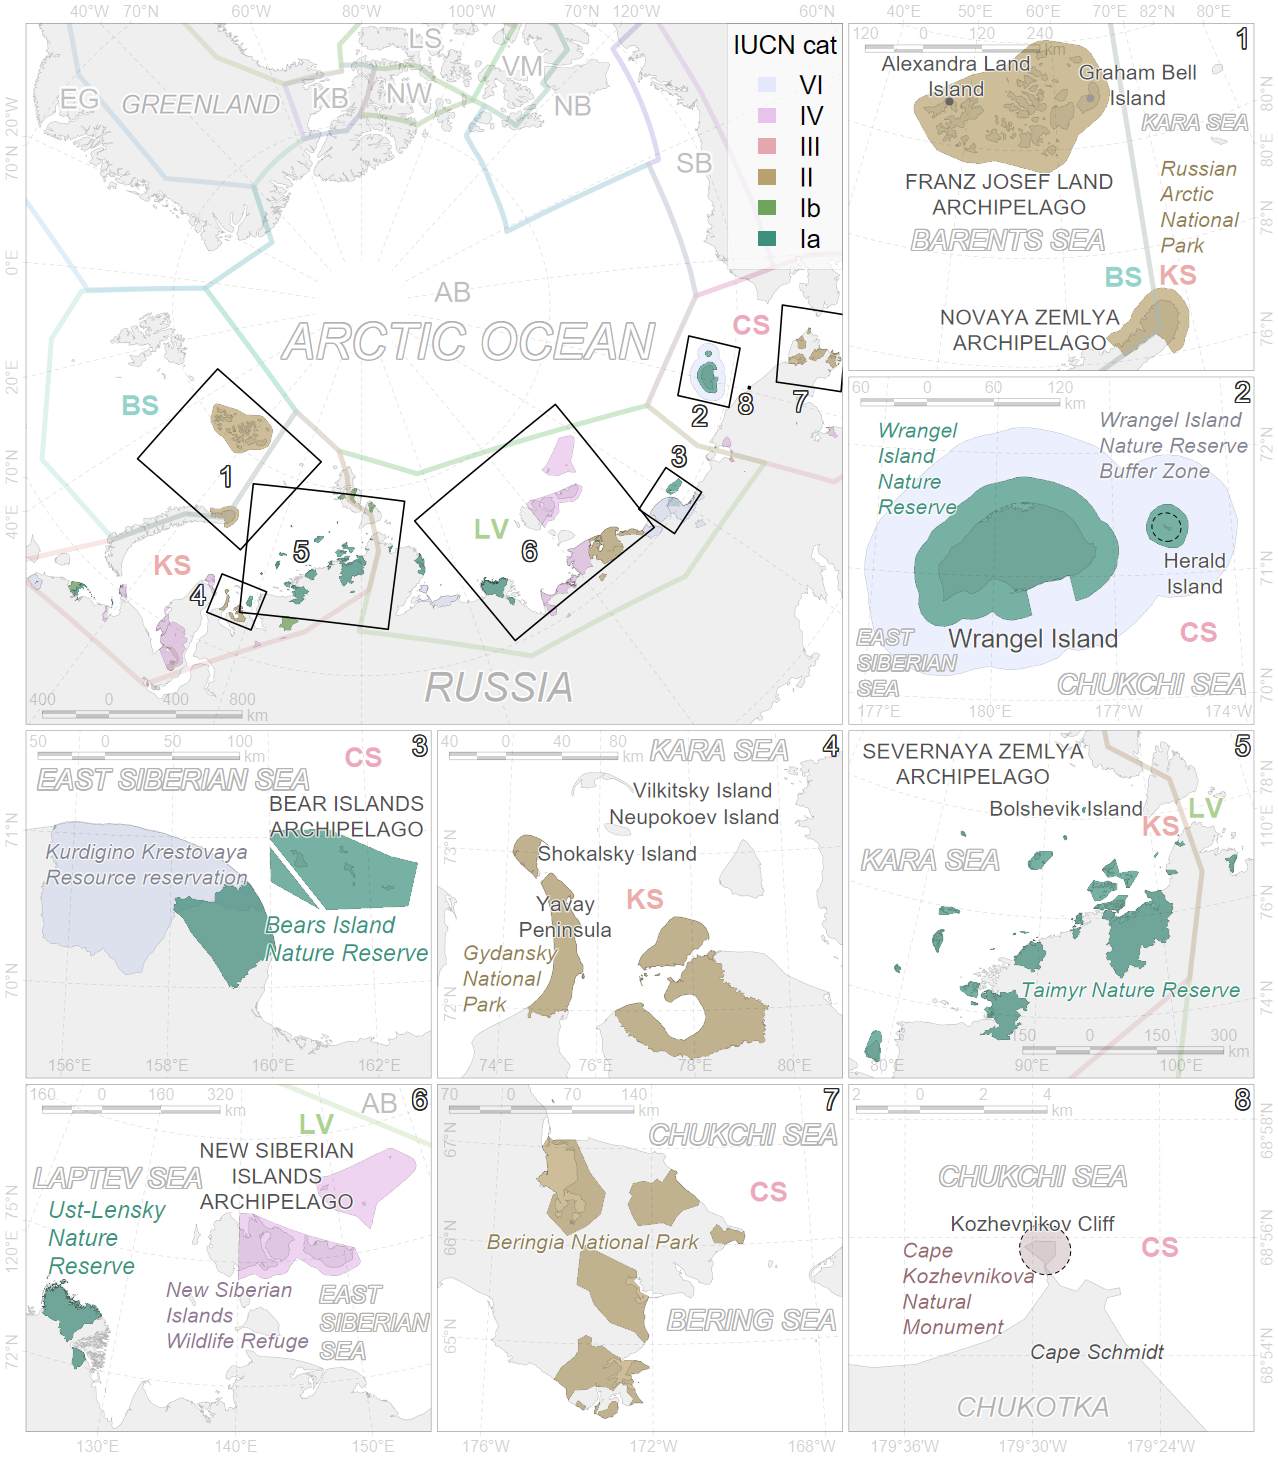
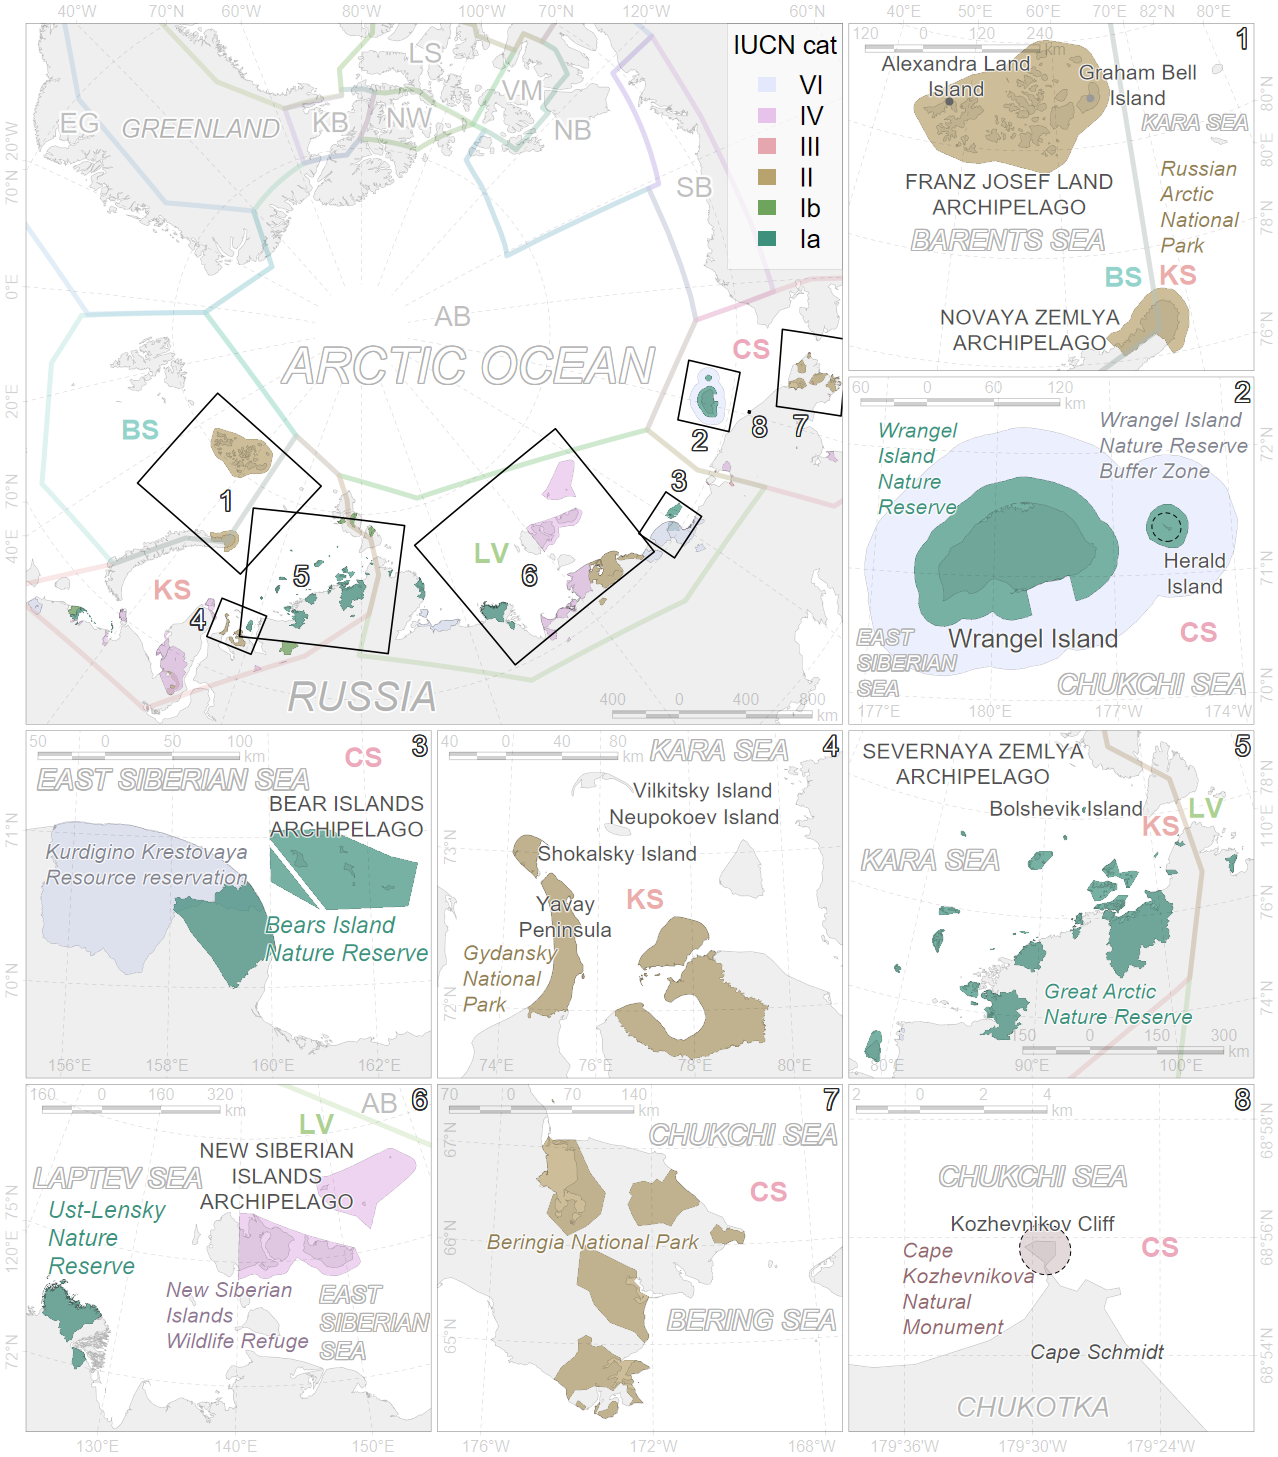
ongoing

Changed region(s): [[0.0, 0.0, 0.6714, 0.4942], [0.7934, 0.6795, 0.946, 0.7104], [0.4883, 0.4633, 0.6408, 0.4942]]

diff --git a/now/20240612/proceedings.html b/now/20240612/proceedings.html
@@ -12,7 +12,7 @@
 
 
 
-<title>(12:19) Proceedings</title>
+<title>(14:56) Proceedings</title>
 
 <link href="https://nplatonov.github.io/site_libs/anchor-sections-1.1.0/anchor-sections.css" rel="stylesheet" />
 <link href="https://nplatonov.github.io/site_libs/anchor-sections-1.1.0/anchor-sections-hash.css" rel="stylesheet" />
@@ -98,7 +98,7 @@ Lensky Pillars State Nature Reserve, Yakutsk, Russia</address><br><h4 class="aut
 <address class="author_afil">
 Autonomous Non-Profit Organization “EcoFactor”, Saint Petersburg, Russia</address><br><h4 class="author">Chernook I. V.</h4>
 <address class="author_afil">
-Autonomous Non-Profit Organization “EcoFactor”, Saint Petersburg, Russia</address><br><h4 class="date"><span class="when"> <span class="updated">Updated: 2024-12-20 12:19</span></span></h4>
+Autonomous Non-Profit Organization “EcoFactor”, Saint Petersburg, Russia</address><br><h4 class="date"><span class="when"> <span class="updated">Updated: 2024-12-20 14:56</span></span></h4>
 
 
 <div id="TOC">
@@ -195,7 +195,7 @@ Autonomous Non-Profit Organization “EcoFactor”, Saint Petersburg, Russia</ad
 <div id="new-regulations" class="section level3 hasAnchor">
 <h3>New Regulations<a href="#new-regulations" class="anchor-section" aria-label="Anchor link to header"></a></h3>
 <p>No significant new environmental regulations have been approved recently, apart from minor encouraging updates.</p>
-<p>Under the previous edition of the Red Data Book <span class="citation">(<a href="#ref-RedBook2001en"><span>T</span>he <span>R</span>ed <span>D</span>ata <span>B</span>ook of the <span>R</span>ussian <span>F</span>ederation 2001</a>)</span>, polar bears in Russia were classified into three distinct populations: the Kara-Barents Sea population, the Laptev Sea population, and the Alaska-Chukotka population. These population boundaries are specified, for example, in the 2010 Strategy for Polar Bear Conservation <span class="citation">(<a href="#ref-PB_strategy2010en">S. E. Belikov et al. 2010</a>)</span>.</p>
+<p>Under the previous edition of <span class="citation"><span>T</span>he <span>R</span>ed <span>D</span>ata <span>B</span>ook of the <span>R</span>ussian <span>F</span>ederation (<a href="#ref-RedBook2001en">2001</a>)</span>, polar bears in Russia were classified into three distinct populations: the Kara-Barents Sea population, the Laptev Sea population, and the Alaska-Chukotka population. These population boundaries are specified, for example, in the 2010 Strategy for Polar Bear Conservation <span class="citation">(<a href="#ref-PB_strategy2010en">S. E. Belikov et al. 2010</a>)</span>.</p>
 <p>Currently, the Ministry of Natural Resources and Ecology of the Russian Federation (see the next section) uses the term “subpopulation” in its statements and official documents, aligning with IUCN definitions for consistency.</p>
 </div>
 </div>
@@ -250,12 +250,12 @@ Regional authorities are responsible for managing regional PAs, including ensuri
 <h2>Protected Areas<a href="#protected-areas" class="anchor-section" aria-label="Anchor link to header"></a></h2>
 <p>Protected areas in Russia serve as an effective tool for polar bear conservation by ensuring territorial protection for wildlife. These areas are managed by both state and regional authorities.</p>
 <div class="figure"><span style="display:block;" id="fig:fig-epa"></span>
-<img src="assets/toponim-epa.png" alt="Russian protected areas inside of IUCN polar bear subpopulation boundaries" width="639" height="386" />
+<img src="assets/toponim-epa.png" alt="Russian protected areas within the IUCN polar bear subpopulation boundaries are shown. Abbreviations for the IUCN polar bear subpopulations, as managed by the Russian Federation, are highlighted in color. The boundaries of the eight inset maps, with their corresponding numbers displayed in the top right corners, are outlined with black boxes on the base map. Protected areas are coloured according to IUCN categories, with a colour legend provided on the base map" width="639" height="386" />
 <p class="caption">
-<span class="caption-prefix" data-id="fig:fig-epa">Figure 1</span><span class="caption-suffix"></span> Russian protected areas inside of IUCN polar bear subpopulation boundaries
+<span class="caption-prefix" data-id="fig:fig-epa">Figure 1</span><span class="caption-suffix"></span> Russian protected areas within the IUCN polar bear subpopulation boundaries are shown. Abbreviations for the IUCN polar bear subpopulations, as managed by the Russian Federation, are highlighted in color. The boundaries of the eight inset maps, with their corresponding numbers displayed in the top right corners, are outlined with black boxes on the base map. Protected areas are coloured according to IUCN categories, with a colour legend provided on the base map
 </p>
 </div>
-<p>There are 52 protected areas overlapping with the IUCN polar bear subpopulation boundaries. By management level, these include: 21 with federal status, 30 with regional status, 1 with local status. By classification, these consist of: 6 state nature reserves (zapovedniks), 4 national parks, 7 federal wildlife preserves (zakazniks), 3 natural parks, 7 regional preserves, 17 natural monuments, 2 buffer zones, and 1 resting area. The alignment between Russian protected areas and IUCN categories was prepared by Boris Solovyev from Systematic Conservation Consultancy (Figure <a href="#fig:fig-epa">1</a>). According to IUCN categories, the protected areas include: 7 Strict Nature Reserves (Ia), 3 Wilderness Areas (Ib), 6 National Parks (II), 17 Natural Monuments (III), 12 Habitat/Species Management Areas (IV), and 7 Managed Resource Protected Areas (IV).</p>
+<p>There are 52 protected areas overlapping with the IUCN polar bear subpopulation boundaries. By management level, these include: 21 with federal status, 30 with regional status, 1 with local status. By classification, these consist of: 6 state nature reserves (zapovedniks), 4 national parks, 7 federal wildlife refuges (zakazniks), 3 natural parks, 7 regional wildlife refuges, 17 natural monuments, 2 buffer zones, and 1 resting area. The alignment between Russian protected areas and IUCN categories was prepared by Boris Solovyev from Systematic Conservation Consultancy (Figure <a href="#fig:fig-epa">1</a>). According to IUCN categories, the protected areas include: 7 Strict Nature Reserves (Ia), 3 Wilderness Areas (Ib), 6 National Parks (II), 17 Natural Monuments (III), 12 Habitat/Species Management Areas (IV), and 7 Managed Resource Protected Areas (IV).</p>
 <p>No new protected areas have been established during the 2022–2024 period.</p>
 </div>
 <div id="conservation" class="section level2 hasAnchor">
@@ -278,7 +278,7 @@ In recent years, some scientific funding programs have ceased to exist. For exam
 <div id="participants" class="section level2 hasAnchor">
 <h2>Participants<a href="#participants" class="anchor-section" aria-label="Anchor link to header"></a></h2>
 <p>Scientific research projects on polar bears are conducted by individual scientific institutions and non-governmental organizations.</p>
-<p><em>Natural reserves</em> primarily manage protected areas but also play an active role in polar bear research. <strong>The Russian Arctic National Park</strong> conducts several research components, including spring surveys of maternal dens on Alexandra Land Island (Franz Josef Land archipelago) with data from expeditions by the “Severtsov Institute”, monitoring the number of polar bear encounters reported by park staff during tourist cruises, analysis of camera trap data from northern Novaya Zemlya and Alexandra Land Island. <strong>The Wrangel Island State Nature Reserve</strong>, supported by “RosZapovedCenter” in 2022, continues long-term monitoring efforts, including tracking maternal den distribution, conducting ground and aerial polar bear surveys, and analysing camera trap data. <strong>The Bear Islands State Nature Reserve</strong> is managed by <strong>the Lensky Pillars State Nature Reserve</strong>, with expanded activities into <strong>the Kurdigino Krestovaya Resource Reservation</strong>. These activities include monitoring maternal den distribution, ground and aerial polar bear surveys, and camera trap analysis. In 2023, “RosZapovedCenter” supported UAV-based aerial surveys of the Bear Islands. <strong>The Gydansky National Park</strong> focuses on estimating polar bear occurrences, with support from “RosZapovedCenter” expected in 2024. Meanwhile, <strong>the Taimyr State Nature Reserve</strong> had plans for polar bear surveys in 2024, but these were postponed. Research activities in areas managed by <strong>the Ust-Lensky State Nature Reserve</strong> and <strong>the New Siberian Islands Wildlife Refuge</strong> remain systematic but limited <span class="citation">(<a href="#ref-Gladysheva2022en">Gladysheva 2022</a>)</span>, primarily due to the inaccessibility of key polar bear habitats. Basic research here involves polar bear occurrence studies. The Ust-Lensky State Nature Reserve co-participated in the “Master of the Arctic” aerial survey in 2021 and plans to conduct another polar bear survey in 2025. <strong>The Beringia National Park</strong> has recently summarized polar bear distribution on terrestrial Chukotka, identified effective measures for human safety near polar bears, and continues behaviour analysis at model sites.</p>
+<p><em>Natural reserves</em> primarily manage protected areas but also play an active role in polar bear research. <strong>The Russian Arctic National Park</strong> conducts several research components, including spring surveys of maternal dens on Alexandra Land Island (Franz Josef Land archipelago) with data from expeditions by the “Severtsov Institute”, monitoring the number of polar bear encounters reported by park staff during tourist cruises, analysis of camera trap data from northern Novaya Zemlya and Alexandra Land Island. <strong>The Wrangel Island State Nature Reserve</strong>, supported by “RosZapovedCenter” in 2022, continues long-term monitoring efforts, including tracking maternal den distribution, conducting ground and aerial polar bear surveys, and analysing camera trap data. <strong>The Bear Islands State Nature Reserve</strong> is managed by <strong>the Lensky Pillars State Nature Reserve</strong>, with expanded activities into <strong>the Kurdigino Krestovaya Resource Reservation</strong>. These activities include monitoring maternal den distribution, ground and aerial polar bear surveys, and camera trap analysis. In 2023, “RosZapovedCenter” supported UAV-based aerial surveys of the Bear Islands. <strong>The Gydansky National Park</strong> focuses on estimating polar bear occurrences, with support from “RosZapovedCenter” expected in 2024. Meanwhile, <strong>The Great Arctic State Nature Reserve</strong>, managed by <strong>the Joint Directorate of Taymyr Reserves</strong>, had plans for polar bear surveys in 2024, but these were postponed. Research activities in areas managed by <strong>the Ust-Lensky State Nature Reserve</strong> and <strong>the New Siberian Islands Wildlife Refuge</strong> remain systematic but limited <span class="citation">(<a href="#ref-Gladysheva2022en">Gladysheva 2022</a>)</span>, primarily due to the inaccessibility of key polar bear habitats. Basic research here involves polar bear occurrence studies. The Ust-Lensky State Nature Reserve co-participated in the “Master of the Arctic” aerial survey in 2021 and plans to conduct another polar bear survey in 2025. <strong>The Beringia National Park</strong> has recently summarized polar bear distribution on terrestrial Chukotka, identified effective measures for human safety near polar bears, and continues behaviour analysis at model sites.</p>
 <p><em>Research institutes</em> focus on specialized polar bear studies, leveraging multidisciplinary expertise. <strong>The All-Russian Research Institute for Environmental Protection </strong> (VNII Ecology), in collaboration with <strong>the Institute of Geography of the Russian Academy of Sciences</strong> (Geography Institute), has made progress in the following areas: ground surveys of polar bears on Wrangel Island (2016–2019), monitoring polar bear occurrences on sea ice, preparing methodologies for maternal den surveys, developing models of environmental suitability for maternal dens on Wrangel Island, Franz Josef Land, Severnaya Zemlya, and Novaya Zemlya (ongoing). Their studies also include polar bear welfare in the Laptev Sea, vulnerability to climate change, and reviews of marine mammal activities in the Franz Josef Land region. <strong>The Institute of Biological Problems of the North, Far East Branch of the Russian Academy of Sciences</strong>, collaborates with <strong>the Beringia National Park</strong> on polar bear behaviour and distribution as well as human-polar bear conflict issues. <strong>The A. N. Severtsov Institute of Ecology and Evolution of the Russian Academy of Sciences</strong> (Severtsov Institute) focuses on aerial surveys (e.g., Laptev Sea in 2021), seropositivity, immunity, microbiology, toxicology, and population structure. Their data are primarily collected through captures. Between 2022 and 2024, fieldwork resulted in 75 polar bear encounters, with 12 biological samples (blood, hair, excrement, microbiology sets) collected from immobilized individuals.</p>
 <p><em>Non-profit organizations</em> have recently become active participants in polar bear research, contributing valuable results. <strong>The Marine Mammals Research and Expedition Center</strong> conducts polar bear and marine mammal studies. Its activities include: supporting onshore and offshore research expeditions, providing training for personal safety in polar bear habitats, organizing and managing territorial security systems. This center has demonstrated effectiveness in necessary immobilization procedures and auditing camping safety measures. <strong>The Autonomous Non-Profit Organization “EcoFactor”</strong> develops neural network and computer vision software for polar bear identification using object detection and classification approaches. It also organizes aerial surveys for marine mammals and polar bears. As a principal subcontractor of “RosZapovedCenter”, “EcoFactor” conducted aerial surveys on Wrangel Island in 2022 and the Bear Islands in 2023.</p>
 </div>
